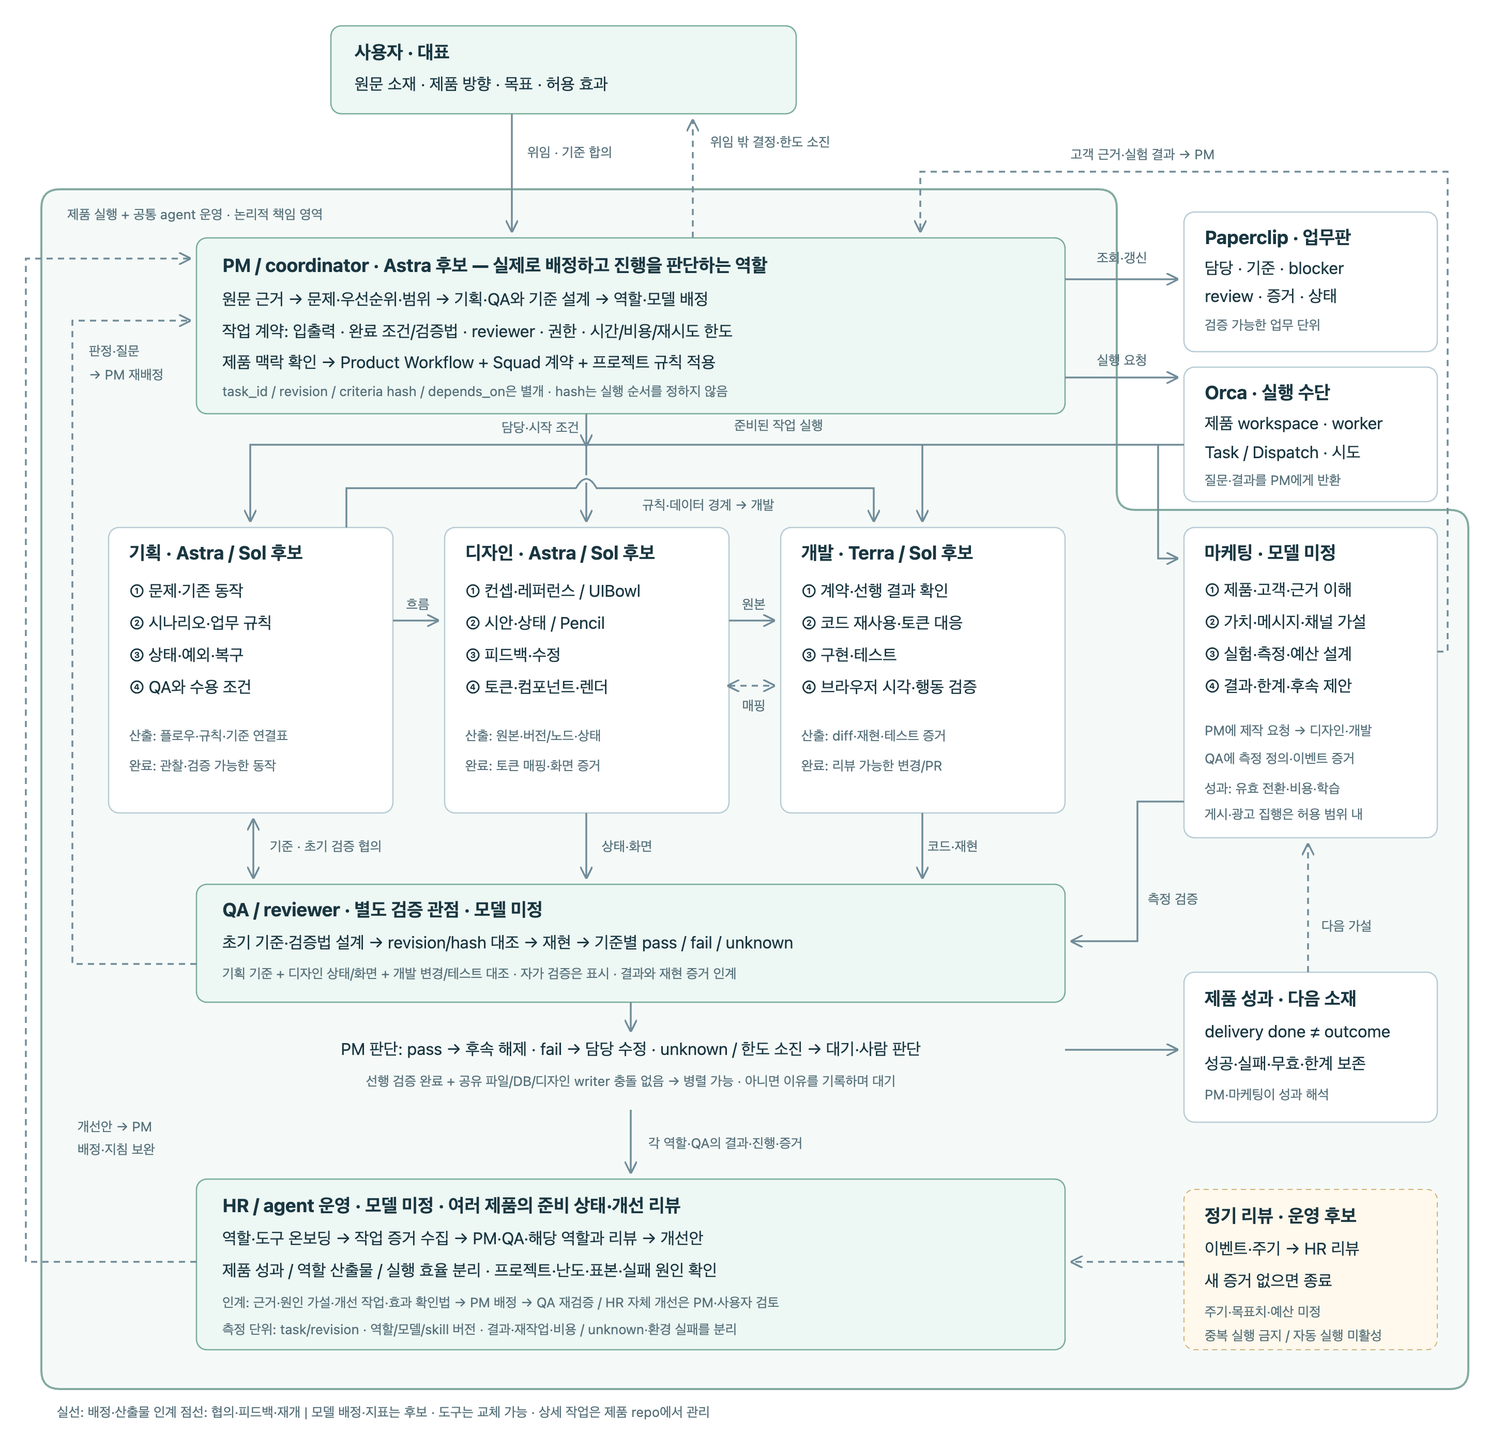
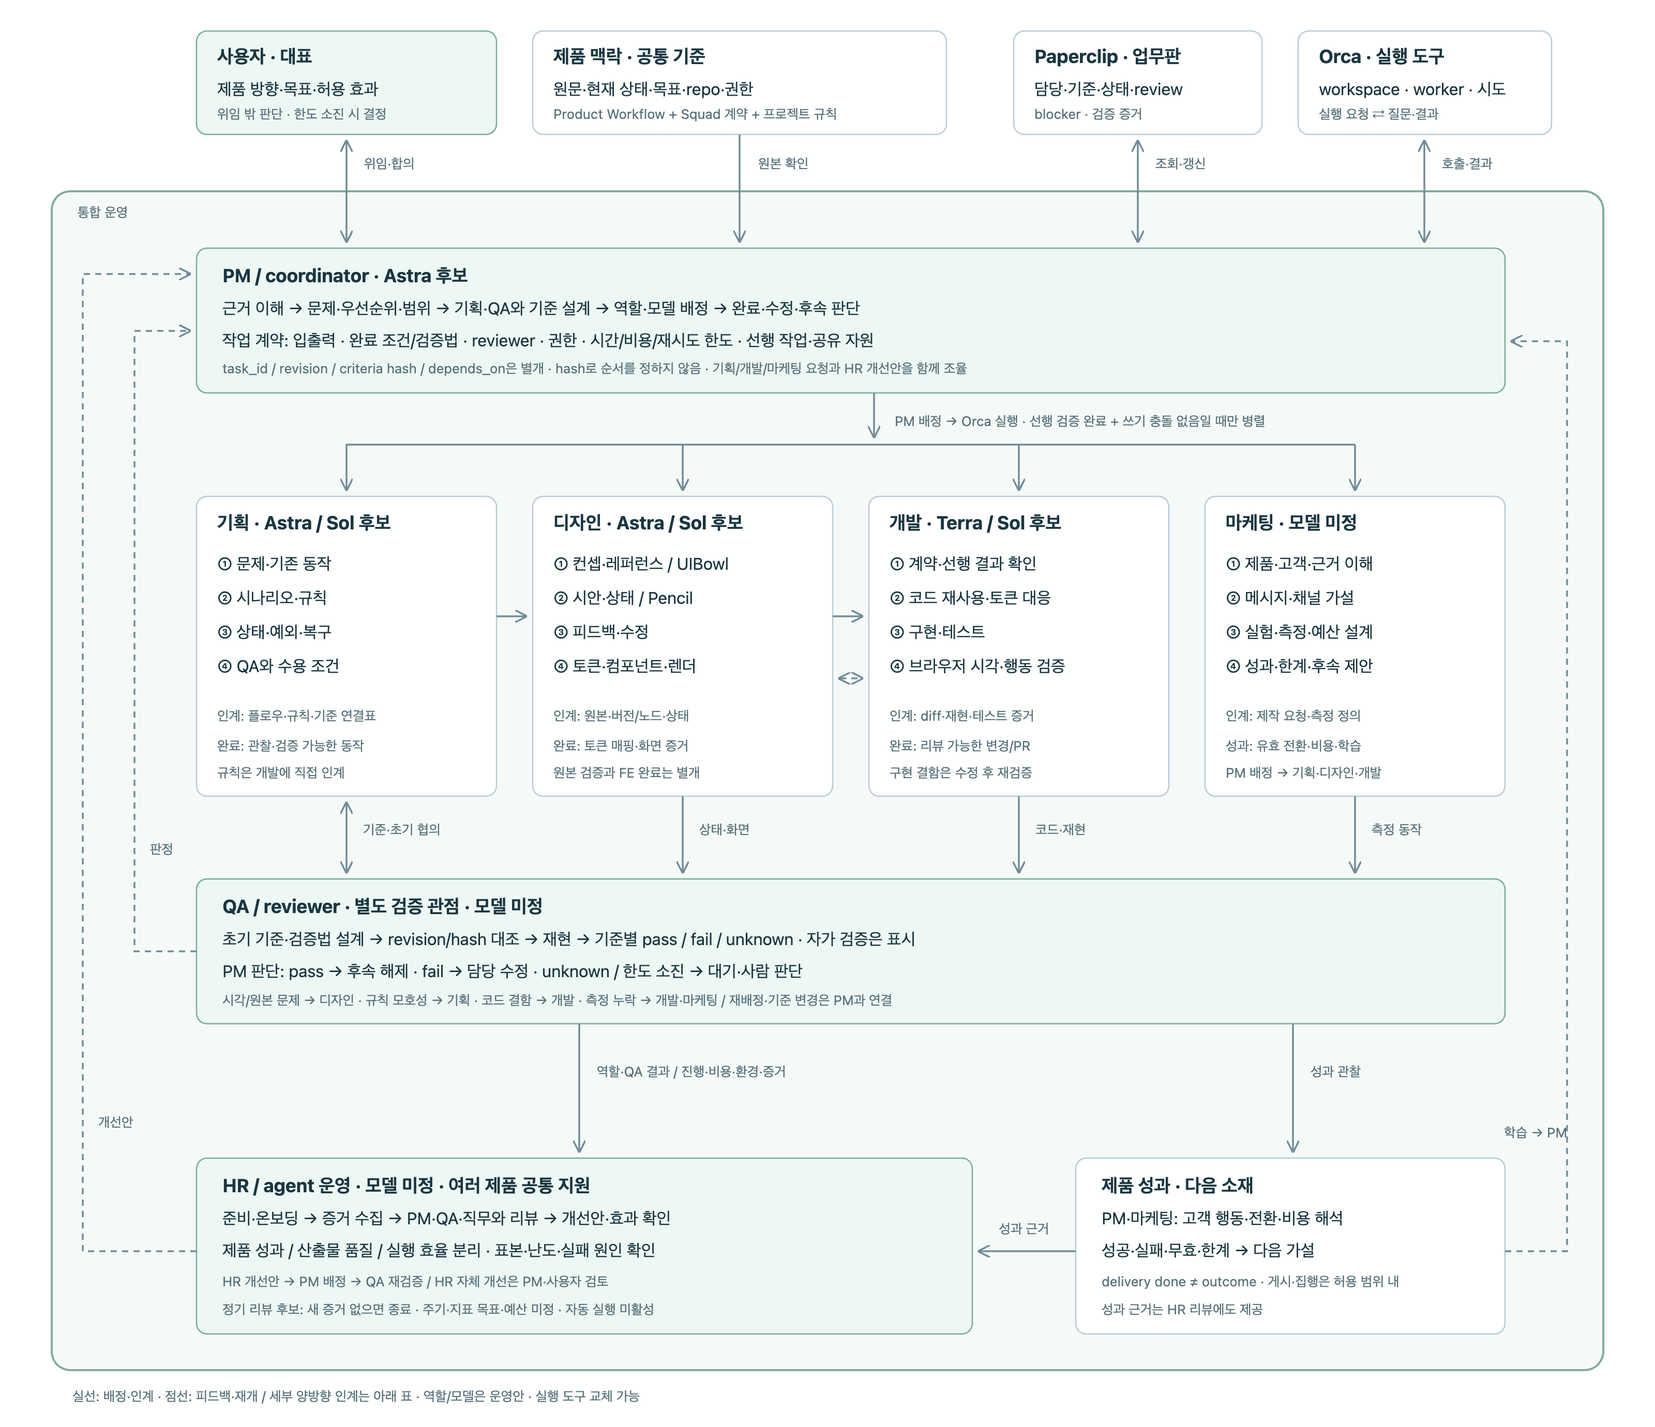
Recompose workflow around aligned roles and review paths

diff --git a/tasks/model-process.html b/tasks/model-process.html
@@ -9,86 +9,69 @@
 <section id="team" aria-labelledby="team-title">
 <h2 id="team-title">전체 업무 · 역할 내부 작업 · 인계와 검증</h2>
 <p>제품 실행과 마케팅, 공통 HR 리뷰를 한 캔버스로 펼쳤습니다. 역할과 모델 배정은 운영안이며, 상시 실행 중인 agent 구성이 아닙니다.</p>
-<div class="canvas"><svg viewBox="0 0 1420 1380" role="img" aria-label="사용자에서 PM, 기획 디자인 개발 QA 마케팅 HR과 도구를 거쳐 검증 결과와 다음 작업이 다시 PM으로 돌아오는 통합 업무 흐름">
+<div class="canvas"><svg viewBox="0 0 1580 1360" role="img" aria-label="사용자와 공통 기준 및 도구, PM 중심의 네 실행 역할, QA 검증, HR 리뷰와 제품 성과가 연결된 통합 업무 흐름">
 <defs><marker id="arrow" markerWidth="7" markerHeight="7" refX="6" refY="3.5" orient="auto-start-reverse"><path d="M0 0L7 3.5L0 7" fill="none" stroke="#718c99"/></marker></defs>
-<path d="M48 173H1052Q1070 173 1070 191V465Q1070 483 1088 483H1392Q1410 483 1410 501V1315Q1410 1333 1392 1333H48Q30 1333 30 1315V191Q30 173 48 173Z" fill="#f5faf8" stroke="#83aaa1" stroke-width="2"/>
-<text x="55" y="202" class="small">제품 실행 + 공통 agent 운영 · 논리적 책임 영역</text>
-<rect x="310" y="15" width="450" height="85" rx="10" class="node green"/>
-<text x="333" y="47" class="title">사용자 · 대표</text><text x="333" y="77">원문 소재 · 제품 방향 · 목표 · 허용 효과</text>
-<path d="M485 100V213" class="line"/><text x="500" y="142" class="small">위임 · 기준 합의</text>
-<path d="M660 220V107" class="line return"/><text x="677" y="132" class="small">위임 밖 결정·한도 소진</text>
-<rect x="180" y="220" width="840" height="170" rx="10" class="node green"/>
-<text x="205" y="253" class="title">PM / coordinator · Astra 후보 — 실제로 배정하고 진행을 판단하는 역할</text>
-<text x="205" y="285">원문 근거 → 문제·우선순위·범위 → 기획·QA와 기준 설계 → 역할·모델 배정</text>
-<text x="205" y="316">작업 계약: 입출력 · 완료 조건/검증법 · reviewer · 권한 · 시간/비용/재시도 한도</text>
-<text x="205" y="346">제품 맥락 확인 → Product Workflow + Squad 계약 + 프로젝트 규칙 적용</text>
-<text x="205" y="373" class="small">task_id / revision / criteria hash / depends_on은 별개 · hash는 실행 순서를 정하지 않음</text>
-<path d="M1020 260H1128" class="line"/><text x="1075" y="244" text-anchor="middle" class="small">조회·갱신</text>
-<rect x="1135" y="195" width="245" height="135" rx="10" class="node"/>
-<text x="1155" y="226" class="title">Paperclip · 업무판</text><text x="1155" y="255">담당 · 기준 · blocker</text><text x="1155" y="282">review · 증거 · 상태</text><text x="1155" y="309" class="small">검증 가능한 업무 단위</text>
-<path d="M1020 355H1128" class="line"/><text x="1075" y="343" text-anchor="middle" class="small">실행 요청</text>
-<rect x="1135" y="345" width="245" height="130" rx="10" class="node"/>
-<text x="1155" y="376" class="title">Orca · 실행 수단</text><text x="1155" y="405">제품 workspace · worker</text><text x="1155" y="433">Task / Dispatch · 시도</text><text x="1155" y="459" class="small">질문·결과를 PM에게 반환</text>
-<path d="M557 390V420" class="line"/>
-<text x="550" y="408" text-anchor="end" class="small">담당·시작 조건</text>
-<path d="M1135 420H232V493" class="line"/>
-<path d="M557 420V493" class="line"/><path d="M882 420V493" class="line"/>
-<text x="700" y="406" class="small">준비된 작업 실행</text>
-<rect x="95" y="500" width="275" height="276" rx="10" class="node"/>
-<text x="115" y="531" class="title">기획 · Astra / Sol 후보</text>
-<text x="115" y="567">① 문제·기존 동작</text><text x="115" y="598">② 시나리오·업무 규칙</text><text x="115" y="629">③ 상태·예외·복구</text><text x="115" y="660">④ QA와 수용 조건</text>
-<text x="115" y="706" class="small">산출: 플로우·규칙·기준 연결표</text><text x="115" y="735" class="small">완료: 관찰·검증 가능한 동작</text>
-<rect x="420" y="500" width="275" height="276" rx="10" class="node"/>
-<text x="440" y="531" class="title">디자인 · Astra / Sol 후보</text>
-<text x="440" y="567">① 컨셉·레퍼런스 / UIBowl</text><text x="440" y="598">② 시안·상태 / Pencil</text><text x="440" y="629">③ 피드백·수정</text><text x="440" y="660">④ 토큰·컴포넌트·렌더</text>
-<text x="440" y="706" class="small">산출: 원본·버전/노드·상태</text><text x="440" y="735" class="small">완료: 토큰 매핑·화면 증거</text>
-<rect x="745" y="500" width="275" height="276" rx="10" class="node"/>
-<text x="765" y="531" class="title">개발 · Terra / Sol 후보</text>
-<text x="765" y="567">① 계약·선행 결과 확인</text><text x="765" y="598">② 코드 재사용·토큰 대응</text><text x="765" y="629">③ 구현·테스트</text><text x="765" y="660">④ 브라우저 시각·행동 검증</text>
-<text x="765" y="706" class="small">산출: diff·재현·테스트 증거</text><text x="765" y="735" class="small">완료: 리뷰 가능한 변경/PR</text>
-<path d="M370 590H413" class="line"/><text x="394" y="579" text-anchor="middle" class="small">흐름</text>
-<path d="M695 590H738" class="line"/><text x="719" y="579" text-anchor="middle" class="small">원본</text>
-<path d="M695 653H738" class="line return" marker-start="url(#arrow)"/><text x="719" y="677" text-anchor="middle" class="small">매핑</text>
-<path d="M547 462Q557 444 567 462" fill="none" stroke="#f5faf8" stroke-width="7"/>
-<path d="M325 500V462H547Q557 444 567 462H835V493" class="line"/><text x="675" y="483" text-anchor="middle" class="small">규칙·데이터 경계 → 개발</text>
-<rect x="180" y="845" width="840" height="114" rx="10" class="node green"/>
-<text x="205" y="876" class="title">QA / reviewer · 별도 검증 관점 · 모델 미정</text>
-<text x="205" y="907">초기 기준·검증법 설계 → revision/hash 대조 → 재현 → 기준별 pass / fail / unknown</text>
-<text x="205" y="936" class="small">기획 기준 + 디자인 상태/화면 + 개발 변경/테스트 대조 · 자가 검증은 표시 · 결과와 재현 증거 인계</text>
-<path d="M235 783V838" class="line" marker-start="url(#arrow)"/><text x="251" y="813" class="small">기준 · 초기 검증 협의</text>
-<path d="M557 776V838" class="line"/><text x="572" y="813" class="small">상태·화면</text>
-<path d="M882 776V838" class="line"/><text x="887" y="813" class="small">코드·재현</text>
-<path d="M180 922H60V300H173" class="line return"/><text x="76" y="334" class="small">판정·질문</text><text x="76" y="357" class="small">→ PM 재배정</text>
-<path d="M600 959V986" class="line"/>
-<text x="600" y="1010" text-anchor="middle">PM 판단: pass → 후속 해제 · fail → 담당 수정 · unknown / 한도 소진 → 대기·사람 판단</text>
-<text x="600" y="1040" text-anchor="middle" class="small">선행 검증 완료 + 공유 파일/DB/디자인 writer 충돌 없음 → 병렬 가능 · 아니면 이유를 기록하며 대기</text>
-<rect x="1135" y="500" width="245" height="300" rx="10" class="node"/>
-<text x="1155" y="531" class="title">마케팅 · 모델 미정</text>
-<text x="1155" y="566">① 제품·고객·근거 이해</text><text x="1155" y="597">② 가치·메시지·채널 가설</text>
-<text x="1155" y="628">③ 실험·측정·예산 설계</text><text x="1155" y="659">④ 결과·한계·후속 제안</text>
-<text x="1155" y="701" class="small">PM에 제작 요청 → 디자인·개발</text><text x="1155" y="728" class="small">QA에 측정 정의·이벤트 증거</text>
-<text x="1155" y="757" class="small">성과: 유효 전환·비용·학습</text><text x="1155" y="782" class="small">게시·광고 집행은 허용 범위 내</text>
-<path d="M1110 420V530H1128" class="line"/>
-<path d="M1135 765H1090V900H1027" class="line"/><text x="1100" y="864" class="small">측정 검증</text>
-<path d="M1380 620H1390V156H880V213" class="line return"/><text x="1095" y="144" text-anchor="middle" class="small">고객 근거·실험 결과 → PM</text>
-<rect x="1135" y="930" width="245" height="145" rx="10" class="node"/>
-<text x="1155" y="962" class="title">제품 성과 · 다음 소재</text><text x="1155" y="993">delivery done ≠ outcome</text>
-<text x="1155" y="1024">성공·실패·무효·한계 보존</text><text x="1155" y="1053" class="small">PM·마케팅이 성과 해석</text>
-<path d="M1020 1005H1128" class="line"/><path d="M1255 930V807" class="line return"/><text x="1268" y="890" class="small">다음 가설</text>
-<rect x="180" y="1130" width="840" height="165" rx="10" class="node green"/>
-<text x="205" y="1162" class="title">HR / agent 운영 · 모델 미정 · 여러 제품의 준비 상태·개선 리뷰</text>
-<text x="205" y="1193">역할·도구 온보딩 → 작업 증거 수집 → PM·QA·해당 역할과 리뷰 → 개선안</text>
-<text x="205" y="1224">제품 성과 / 역할 산출물 / 실행 효율 분리 · 프로젝트·난도·표본·실패 원인 확인</text>
-<text x="205" y="1254" class="small">인계: 근거·원인 가설·개선 작업·효과 확인법 → PM 배정 → QA 재검증 / HR 자체 개선은 PM·사용자 검토</text>
-<text x="205" y="1280" class="small">측정 단위: task/revision · 역할/모델/skill 버전 · 결과·재작업·비용 / unknown·환경 실패를 분리</text>
-<path d="M600 1063V1123" class="line"/><text x="617" y="1100" class="small">각 역할·QA의 결과·진행·증거</text>
-<path d="M180 1210H15V240H173" class="line return"/><text x="65" y="1084" class="small">개선안 → PM</text><text x="65" y="1106" class="small">배정·지침 보완</text>
-<rect x="1135" y="1140" width="245" height="155" rx="10" fill="#fff8ec" stroke="#cfb17b" stroke-dasharray="5 4"/>
-<text x="1155" y="1172" class="title">정기 리뷰 · 운영 후보</text>
-<text x="1155" y="1203">이벤트·주기 → HR 리뷰</text><text x="1155" y="1234">새 증거 없으면 종료</text>
-<text x="1155" y="1263" class="small">주기·목표치·예산 미정</text><text x="1155" y="1286" class="small">중복 실행 금지 / 자동 실행 미활성</text>
-<path d="M1135 1210H1027" class="line return"/>
-<text x="45" y="1360" class="small">실선: 배정·산출물 인계   점선: 협의·피드백·재개   |   모델 배정·지표는 후보 · 도구는 교체 가능 · 상세 작업은 제품 repo에서 관리</text>
+<rect x="40" y="175" width="1500" height="1140" rx="18" fill="#f5faf8" stroke="#83aaa1" stroke-width="2"/>
+<text x="65" y="200" class="small">통합 운영</text>
+<rect x="180" y="20" width="290" height="100" rx="10" class="node green"/>
+<text x="200" y="51" class="title">사용자 · 대표</text><text x="200" y="82">제품 방향·목표·허용 효과</text><text x="200" y="105" class="small">위임 밖 판단 · 한도 소진 시 결정</text>
+<rect x="505" y="20" width="400" height="100" rx="10" class="node"/>
+<text x="525" y="51" class="title">제품 맥락 · 공통 기준</text><text x="525" y="82">원문·현재 상태·목표·repo·권한</text><text x="525" y="105" class="small">Product Workflow + Squad 계약 + 프로젝트 규칙</text>
+<rect x="970" y="20" width="240" height="100" rx="10" class="node"/>
+<text x="990" y="51" class="title">Paperclip · 업무판</text><text x="990" y="82">담당·기준·상태·review</text><text x="990" y="105" class="small">blocker · 검증 증거</text>
+<rect x="1245" y="20" width="245" height="100" rx="10" class="node"/>
+<text x="1265" y="51" class="title">Orca · 실행 도구</text><text x="1265" y="82">workspace · worker · 시도</text><text x="1265" y="105" class="small">실행 요청 ⇄ 질문·결과</text>
+<path d="M325 127V223" class="line" marker-start="url(#arrow)"/><text x="342" y="153" class="small">위임·합의</text>
+<path d="M705 120V223" class="line"/><text x="723" y="153" class="small">원본 확인</text>
+<path d="M1090 127V223" class="line" marker-start="url(#arrow)"/><text x="1107" y="153" class="small">조회·갱신</text>
+<path d="M1367 127V223" class="line" marker-start="url(#arrow)"/><text x="1384" y="153" class="small">호출·결과</text>
+<rect x="180" y="230" width="1265" height="140" rx="10" class="node green"/>
+<text x="205" y="263" class="title">PM / coordinator · Astra 후보</text>
+<text x="205" y="294">근거 이해 → 문제·우선순위·범위 → 기획·QA와 기준 설계 → 역할·모델 배정 → 완료·수정·후속 판단</text>
+<text x="205" y="325">작업 계약: 입출력 · 완료 조건/검증법 · reviewer · 권한 · 시간/비용/재시도 한도 · 선행 작업·공유 자원</text>
+<text x="205" y="351" class="small">task_id / revision / criteria hash / depends_on은 별개 · hash로 순서를 정하지 않음 · 기획/개발/마케팅 요청과 HR 개선안을 함께 조율</text>
+<path d="M835 370V412" class="line"/>
+<path d="M1300 420H325V463" class="line"/><path d="M1300 420V463" class="line"/>
+<path d="M650 420V463" class="line"/><path d="M975 420V463" class="line"/>
+<text x="855" y="402" class="small">PM 배정 → Orca 실행 · 선행 검증 완료 + 쓰기 충돌 없음일 때만 병렬</text>
+<rect x="180" y="470" width="290" height="290" rx="10" class="node"/>
+<text x="200" y="502" class="title">기획 · Astra / Sol 후보</text><text x="200" y="541">① 문제·기존 동작</text><text x="200" y="574">② 시나리오·규칙</text><text x="200" y="607">③ 상태·예외·복구</text><text x="200" y="640">④ QA와 수용 조건</text>
+<text x="200" y="687" class="small">인계: 플로우·규칙·기준 연결표</text><text x="200" y="716" class="small">완료: 관찰·검증 가능한 동작</text><text x="200" y="742" class="small">규칙은 개발에 직접 인계</text>
+<rect x="505" y="470" width="290" height="290" rx="10" class="node"/>
+<text x="525" y="502" class="title">디자인 · Astra / Sol 후보</text><text x="525" y="541">① 컨셉·레퍼런스 / UIBowl</text><text x="525" y="574">② 시안·상태 / Pencil</text><text x="525" y="607">③ 피드백·수정</text><text x="525" y="640">④ 토큰·컴포넌트·렌더</text>
+<text x="525" y="687" class="small">인계: 원본·버전/노드·상태</text><text x="525" y="716" class="small">완료: 토큰 매핑·화면 증거</text><text x="525" y="742" class="small">원본 검증과 FE 완료는 별개</text>
+<rect x="830" y="470" width="290" height="290" rx="10" class="node"/>
+<text x="850" y="502" class="title">개발 · Terra / Sol 후보</text><text x="850" y="541">① 계약·선행 결과 확인</text><text x="850" y="574">② 코드 재사용·토큰 대응</text><text x="850" y="607">③ 구현·테스트</text><text x="850" y="640">④ 브라우저 시각·행동 검증</text>
+<text x="850" y="687" class="small">인계: diff·재현·테스트 증거</text><text x="850" y="716" class="small">완료: 리뷰 가능한 변경/PR</text><text x="850" y="742" class="small">구현 결함은 수정 후 재검증</text>
+<rect x="1155" y="470" width="290" height="290" rx="10" class="node"/>
+<text x="1175" y="502" class="title">마케팅 · 모델 미정</text><text x="1175" y="541">① 제품·고객·근거 이해</text><text x="1175" y="574">② 메시지·채널 가설</text><text x="1175" y="607">③ 실험·측정·예산 설계</text><text x="1175" y="640">④ 성과·한계·후속 제안</text>
+<text x="1175" y="687" class="small">인계: 제작 요청·측정 정의</text><text x="1175" y="716" class="small">성과: 유효 전환·비용·학습</text><text x="1175" y="742" class="small">PM 배정 → 기획·디자인·개발</text>
+<path d="M470 586H498" class="line"/><path d="M795 586H823" class="line"/>
+<path d="M802 646H823" class="line return" marker-start="url(#arrow)"/>
+<text x="666" y="797" class="small">상태·화면</text><text x="991" y="797" class="small">코드·재현</text><text x="1316" y="797" class="small">측정 동작</text>
+<text x="341" y="797" class="small">기준·초기 협의</text>
+<path d="M325 767V833" class="line" marker-start="url(#arrow)"/><path d="M650 760V833" class="line"/><path d="M975 760V833" class="line"/><path d="M1300 760V833" class="line"/>
+<rect x="180" y="840" width="1265" height="140" rx="10" class="node green"/>
+<text x="205" y="873" class="title">QA / reviewer · 별도 검증 관점 · 모델 미정</text>
+<text x="205" y="904">초기 기준·검증법 설계 → revision/hash 대조 → 재현 → 기준별 pass / fail / unknown · 자가 검증은 표시</text>
+<text x="205" y="935">PM 판단: pass → 후속 해제 · fail → 담당 수정 · unknown / 한도 소진 → 대기·사람 판단</text>
+<text x="205" y="962" class="small">시각/원본 문제 → 디자인 · 규칙 모호성 → 기획 · 코드 결함 → 개발 · 측정 누락 → 개발·마케팅 / 재배정·기준 변경은 PM과 연결</text>
+<path d="M180 910H120V310H173" class="line return"/><text x="135" y="816" class="small">판정</text>
+<path d="M550 980V1103" class="line"/><text x="567" y="1031" class="small">역할·QA 결과 / 진행·비용·환경·증거</text>
+<path d="M1240 980V1103" class="line"/><text x="1257" y="1031" class="small">성과 관찰</text>
+<rect x="180" y="1110" width="750" height="170" rx="10" class="node green"/>
+<text x="205" y="1143" class="title">HR / agent 운영 · 모델 미정 · 여러 제품 공통 지원</text>
+<text x="205" y="1174">준비·온보딩 → 증거 수집 → PM·QA·직무와 리뷰 → 개선안·효과 확인</text>
+<text x="205" y="1205">제품 성과 / 산출물 품질 / 실행 효율 분리 · 표본·난도·실패 원인 확인</text>
+<text x="205" y="1234" class="small">HR 개선안 → PM 배정 → QA 재검증 / HR 자체 개선은 PM·사용자 검토</text>
+<text x="205" y="1261" class="small">정기 리뷰 후보: 새 증거 없으면 종료 · 주기·지표 목표·예산 미정 · 자동 실행 미활성</text>
+<rect x="1030" y="1110" width="415" height="170" rx="10" class="node"/>
+<text x="1055" y="1143" class="title">제품 성과 · 다음 소재</text><text x="1055" y="1174">PM·마케팅: 고객 행동·전환·비용 해석</text><text x="1055" y="1205">성공·실패·무효·한계 → 다음 가설</text>
+<text x="1055" y="1234" class="small">delivery done ≠ outcome · 게시·집행은 허용 범위 내</text><text x="1055" y="1261" class="small">성과 근거는 HR 리뷰에도 제공</text>
+<path d="M1030 1200H937" class="line"/><text x="980" y="1183" text-anchor="middle" class="small">성과 근거</text>
+<path d="M180 1200H70V255H173" class="line return"/><text x="85" y="1080" class="small">개선안</text>
+<path d="M1445 1200H1505V320H1452" class="line return"/><text x="1505" y="1090" text-anchor="end" class="small">학습 → PM</text>
+<text x="60" y="1345" class="small">실선: 배정·인계 · 점선: 피드백·재개 / 세부 양방향 인계는 아래 표 · 역할/모델은 운영안 · 실행 도구 교체 가능</text>
 </svg></div>
 <p class="note">QA는 최초 기준 설계부터 참여합니다. 결함은 해당 역할로 돌아가고, 범위·기준·권한 변경은 PM이 조율합니다. 역할 간 모든 양방향 인계 조건은 아래 표에 이어집니다.</p>
 <h3>각 역할은 내부에서 어떻게 작업하는가</h3>
